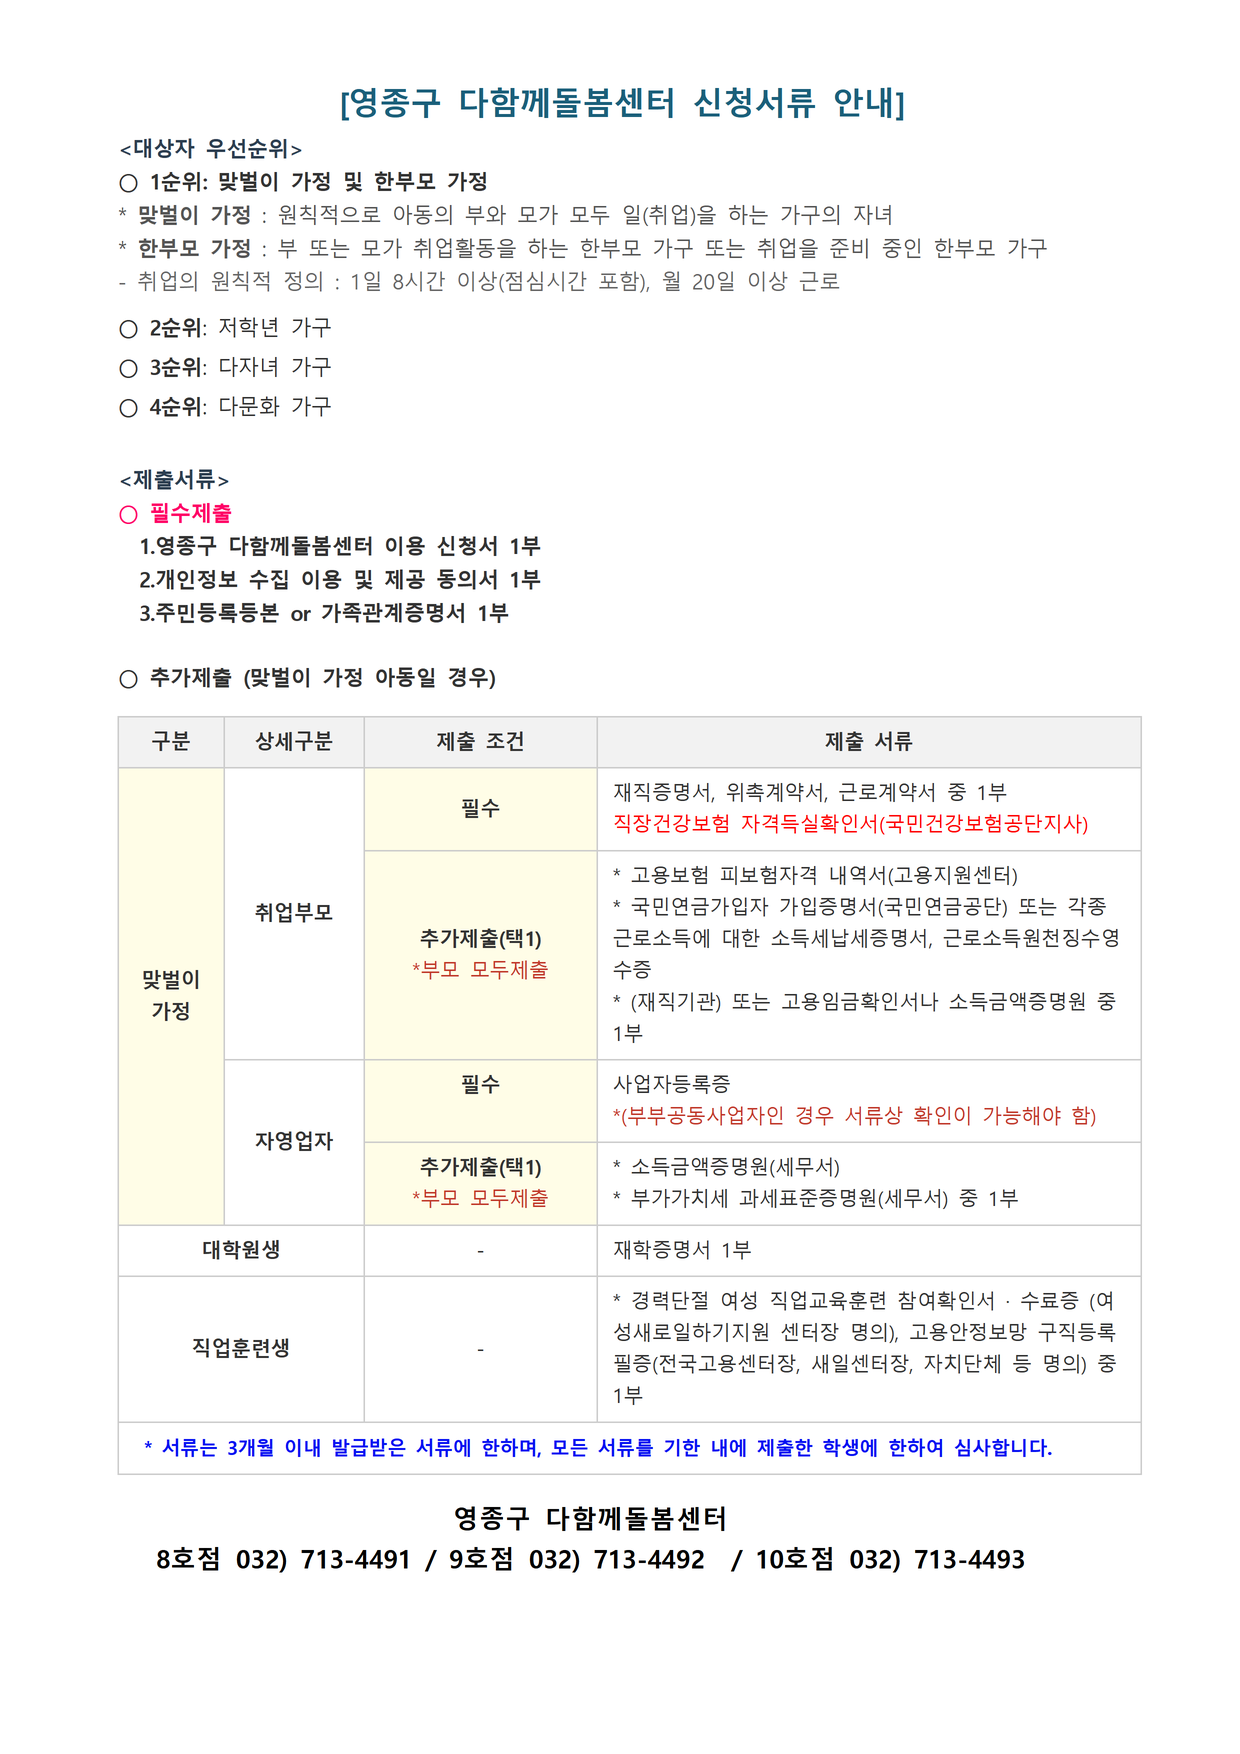
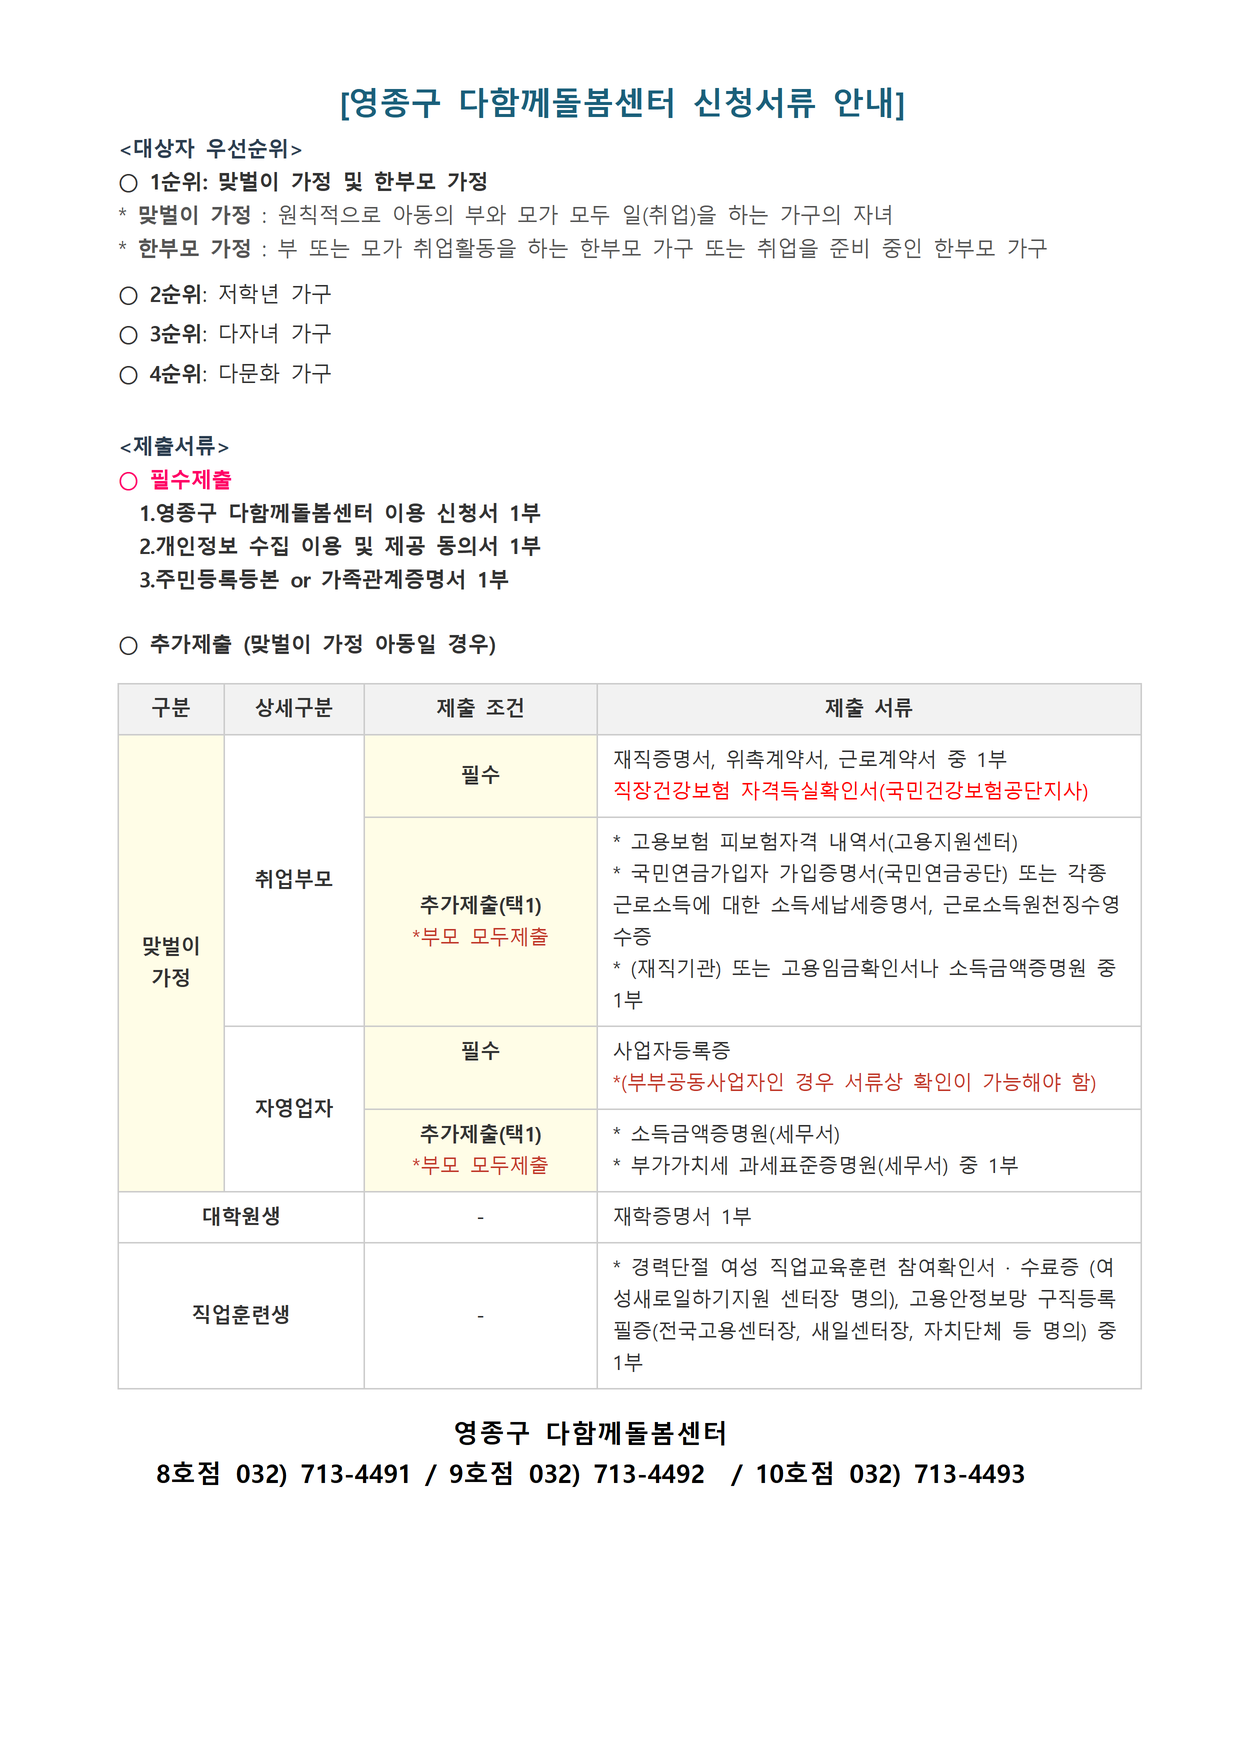
신청서류 안내 그림을 11-25 18:42 판으로 교체, 접수 마감 11.27(금) 오후 7시·8·9호점 입소 서류 평일 오전 10시~오후 7시로 수정

diff --git a/index.html b/index.html
@@ -57,7 +57,7 @@ h2.sec{font-size:19px;margin:6px 0 12px}
 <h2 class="sec">서류 확인</h2>
 <div class="docimg"><h3>신청서류 안내 <span>대상자 우선순위 · 제출서류</span></h3><p class="dnote">대상자 우선순위와 필요한 서류를 확인하고, 아래 「입소 서류」 기간에 센터로 직접 방문해 제출해 주세요.</p><button type="button" class="flyerbtn" data-zoom="flyers/zoom/guide.png" aria-label="대상자 우선순위 · 제출서류 크게 보기"><img class="flyer" src="flyers/guide.png" alt="대상자 우선순위 · 제출서류" loading="lazy"></button><p class="zoomhint">그림을 누르면 크게 볼 수 있어요</p></div>
 <h2 class="sec">모집 안내</h2>
-<div class="infobox"><div class="row"><div class="k">모집 대상</div><div class="v"><p>돌봄이 필요한 만 6세 ~ 12세 아동</p><p>(만 6세이나 입학 전 아동 포함)</p></div></div><div class="row"><div class="k">우선 순위</div><div class="v"><p>맞벌이가정, 한부모가정, 다자녀가정, 초등 저학년, 부모의 출퇴근 거리가 긴 경우</p><p>선발기준: 정원의 70%는 단지내 아동으로 우선 배정합니다.</p></div></div><div class="row"><div class="k">접수 기간</div><div class="v"><p>8·9호점: 2026.11.23(월) 10시 ~ 11.27(금) 17시</p><p>10호점: 2026.11.25(수) 10시 ~ 11.27(금) 17시</p><p>QR 우선접수: 아래 센터 위치에서 다닐 호점의 「신청하고 싶어요」를 눌러 주세요.</p></div></div><div class="row"><div class="k">이용 시간</div><div class="v"><p>학기 중 13:00 ~ 20:00, 방학 중 09:00 ~ 18:00</p><p>주말·공휴일 제외</p></div></div><div class="row"><div class="k">이용 요금</div><div class="v"><p>정기돌봄 월 70,000원 / 일시돌봄 일 5,000원</p><p>(간식비 포함) / 방학기간 중식 무상 지원</p></div></div><div class="row"><div class="k">프로그램</div><div class="v"><p>기본프로그램: 출결확인, 일상생활 지도, 간식제공</p><p>활동프로그램: 독서지도, 신체활동, 음악, 미술 등 영종특화프로그램</p></div></div><div class="row"><div class="k">입소 서류</div><div class="v"><p>8·9호점: 11월 23일(월) 오전 10시부터 서류 접수</p><p>10호점: 11월 25일(수) 오전 10시부터 서류 접수</p><p>QR 신청 아동은 입소 우선순위 및 선정 기준에 따라 검토 후 순차적으로 개별 연락드립니다.</p><p>※ 입소 증빙서류 미제출 시 입소가 취소될 수 있습니다.</p></div></div><div class="row"><div class="k">문의</div><div class="v"><p>현재 센터 개소 준비로 전화 상담이 어려운 점 양해 부탁드립니다.</p><p>문의사항은 센터 방문 시 안내해 드리겠습니다.</p></div></div></div>
+<div class="infobox"><div class="row"><div class="k">모집 대상</div><div class="v"><p>돌봄이 필요한 만 6세 ~ 12세 아동</p><p>(만 6세이나 입학 전 아동 포함)</p></div></div><div class="row"><div class="k">우선 순위</div><div class="v"><p>맞벌이가정, 한부모가정, 다자녀가정, 초등 저학년, 부모의 출퇴근 거리가 긴 경우</p><p>선발기준: 정원의 70%는 단지내 아동으로 우선 배정합니다.</p></div></div><div class="row"><div class="k">접수 기간</div><div class="v"><p>8·9호점: 2026.11.23(월) 10시 ~ 11.27(금) 오후 7시</p><p>10호점: 2026.11.25(수) 10시 ~ 11.27(금) 오후 7시</p><p>QR 우선접수: 아래 센터 위치에서 다닐 호점의 「신청하고 싶어요」를 눌러 주세요.</p></div></div><div class="row"><div class="k">이용 시간</div><div class="v"><p>학기 중 13:00 ~ 20:00, 방학 중 09:00 ~ 18:00</p><p>주말·공휴일 제외</p></div></div><div class="row"><div class="k">이용 요금</div><div class="v"><p>정기돌봄 월 70,000원 / 일시돌봄 일 5,000원</p><p>(간식비 포함) / 방학기간 중식 무상 지원</p></div></div><div class="row"><div class="k">프로그램</div><div class="v"><p>기본프로그램: 출결확인, 일상생활 지도, 간식제공</p><p>활동프로그램: 독서지도, 신체활동, 음악, 미술 등 영종특화프로그램</p></div></div><div class="row"><div class="k">입소 서류</div><div class="v"><p>8·9호점: 평일 오전 10시 ~ 오후 7시 서류 접수</p><p>10호점: 11월 25일(수) 오전 10시부터 서류 접수</p><p>QR 신청 아동은 입소 우선순위 및 선정 기준에 따라 검토 후 순차적으로 개별 연락드립니다.</p><p>※ 입소 증빙서류 미제출 시 입소가 취소될 수 있습니다.</p></div></div><div class="row"><div class="k">문의</div><div class="v"><p>현재 센터 개소 준비로 전화 상담이 어려운 점 양해 부탁드립니다.</p><p>문의사항은 센터 방문 시 안내해 드리겠습니다.</p></div></div></div>
 <h2 class="sec">센터 위치</h2>
 <div class="center"><div class="info"><h3>8호점</h3><dl class="rows"><dt>단지</dt><dd>제일풍경채디오션</dd><dt>주소</dt><dd>찬들로 142<br>커뮤니티센터 지상 1층</dd><dt>정원</dt><dd>20명</dd><dt>메일</dt><dd><a href="mailto:wow0735@gmail.com">wow0735@gmail.com</a></dd></dl></div>
 <a class="apply c8" href="https://forms.gle/8TzuqprSrnAP6JqP9"><span class="ico"><svg viewBox="0 0 24 24" fill="none" stroke="currentColor" stroke-width="2" stroke-linecap="round" stroke-linejoin="round" aria-hidden="true"><path d="M9 11V5.5a1.5 1.5 0 0 1 3 0V10"/><path d="M12 10V4.5a1.5 1.5 0 0 1 3 0V10"/><path d="M15 10V6.5a1.5 1.5 0 0 1 3 0V14a6 6 0 0 1-6 6h-1a6 6 0 0 1-5-2.7L3.6 14a1.5 1.5 0 0 1 2.5-1.7L9 15"/></svg></span>신청하고 싶어요</a></div><div class="center"><div class="info"><h3>9호점</h3><dl class="rows"><dt>단지</dt><dd>오션파크모아엘가그랑데</dd><dt>주소</dt><dd>영종대로565번길 20<br>커뮤니티센터 지상 1층</dd><dt>정원</dt><dd>35명</dd><dt>메일</dt><dd><a href="mailto:kaku837@gmail.com">kaku837@gmail.com</a></dd></dl></div>

diff --git a/build_site.py b/build_site.py
@@ -242,11 +242,11 @@ zv.addEventListener('pointerup',up);zv.addEventListener('pointercancel',up);
 POSTER_INFO = [
     ('모집 대상', ['돌봄이 필요한 만 6세 ~ 12세 아동', '(만 6세이나 입학 전 아동 포함)']),
     ('우선 순위', ['맞벌이가정, 한부모가정, 다자녀가정, 초등 저학년, 부모의 출퇴근 거리가 긴 경우', '선발기준: 정원의 70%는 단지내 아동으로 우선 배정합니다.']),
-    ('접수 기간', ['8·9호점: 2026.11.23(월) 10시 ~ 11.27(금) 17시', '10호점: 2026.11.25(수) 10시 ~ 11.27(금) 17시', 'QR 우선접수: 아래 센터 위치에서 다닐 호점의 「신청하고 싶어요」를 눌러 주세요.']),
+    ('접수 기간', ['8·9호점: 2026.11.23(월) 10시 ~ 11.27(금) 오후 7시', '10호점: 2026.11.25(수) 10시 ~ 11.27(금) 오후 7시', 'QR 우선접수: 아래 센터 위치에서 다닐 호점의 「신청하고 싶어요」를 눌러 주세요.']),
     ('이용 시간', ['학기 중 13:00 ~ 20:00, 방학 중 09:00 ~ 18:00', '주말·공휴일 제외']),
     ('이용 요금', ['정기돌봄 월 70,000원 / 일시돌봄 일 5,000원', '(간식비 포함) / 방학기간 중식 무상 지원']),
     ('프로그램', ['기본프로그램: 출결확인, 일상생활 지도, 간식제공', '활동프로그램: 독서지도, 신체활동, 음악, 미술 등 영종특화프로그램']),
-    ('입소 서류', ['8·9호점: 11월 23일(월) 오전 10시부터 서류 접수', '10호점: 11월 25일(수) 오전 10시부터 서류 접수', 'QR 신청 아동은 입소 우선순위 및 선정 기준에 따라 검토 후 순차적으로 개별 연락드립니다.', '※ 입소 증빙서류 미제출 시 입소가 취소될 수 있습니다.']),
+    ('입소 서류', ['8·9호점: 평일 오전 10시 ~ 오후 7시 서류 접수', '10호점: 11월 25일(수) 오전 10시부터 서류 접수', 'QR 신청 아동은 입소 우선순위 및 선정 기준에 따라 검토 후 순차적으로 개별 연락드립니다.', '※ 입소 증빙서류 미제출 시 입소가 취소될 수 있습니다.']),
     ('문의', ['현재 센터 개소 준비로 전화 상담이 어려운 점 양해 부탁드립니다.', '문의사항은 센터 방문 시 안내해 드리겠습니다.']),
 ]
 info_html = '<div class="infobox">' + ''.join(
